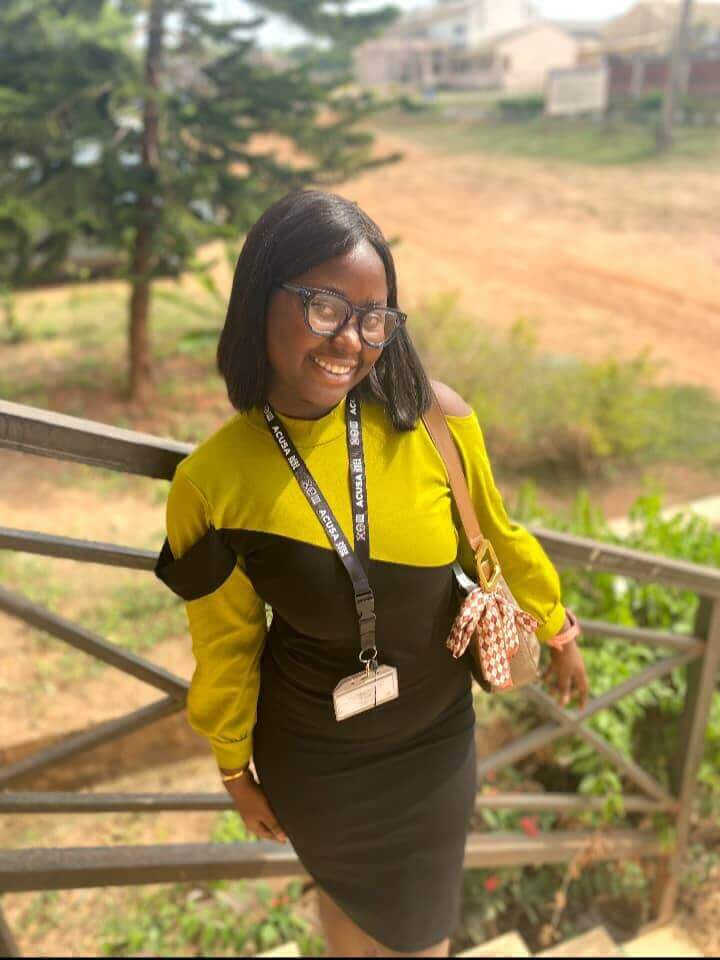
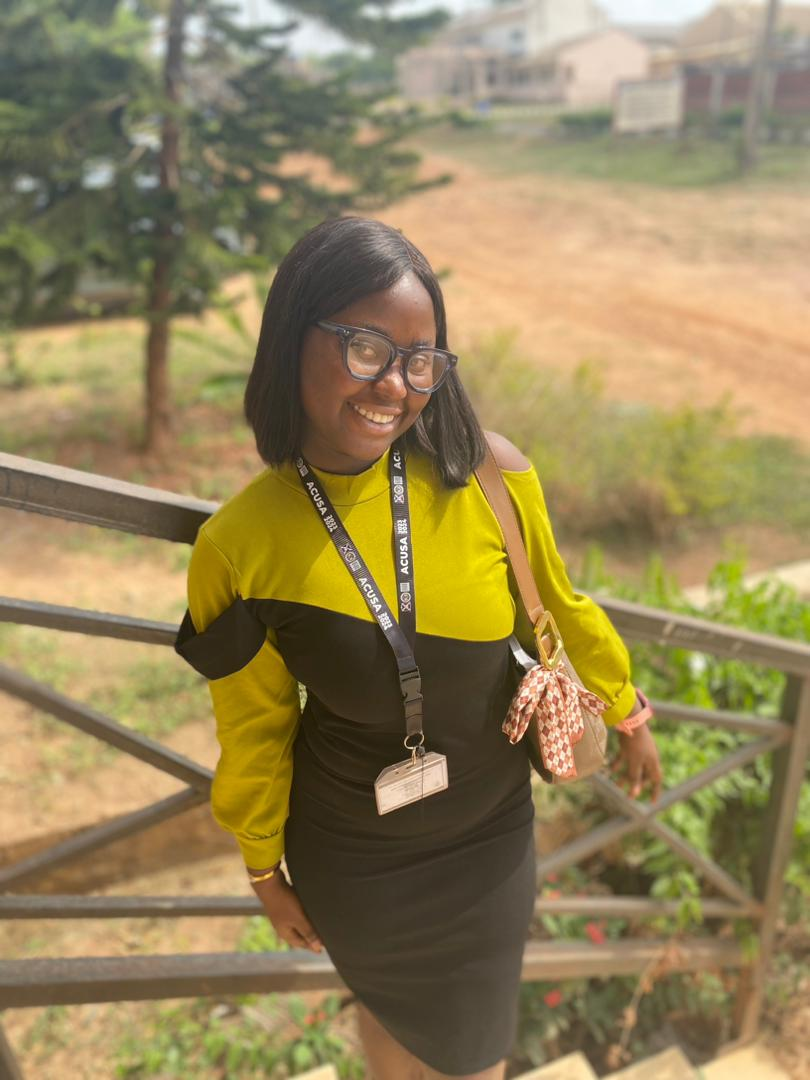
Updated some one picture

diff --git a/app/about/page.jsx b/app/about/page.jsx
@@ -30,7 +30,7 @@ const page = () => {
 		{
 			name: "Ayelabowo wunmi",
 			position: "",
-			imagePath: "/user-icon.jpg",
+			imagePath: "/ayelabowo-wunmi.jpg",
 		},
 		{
 			name: "Anokwute Chidubem",
